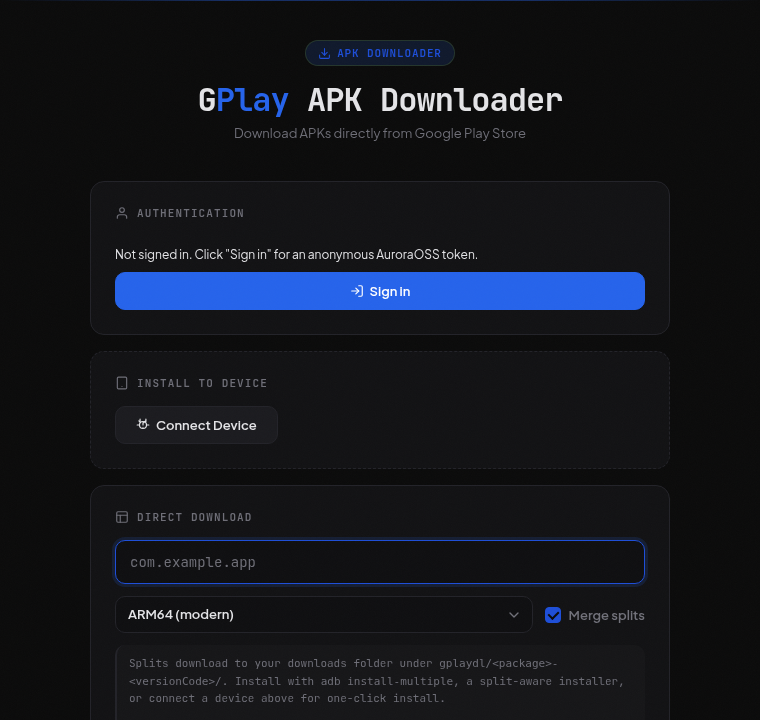
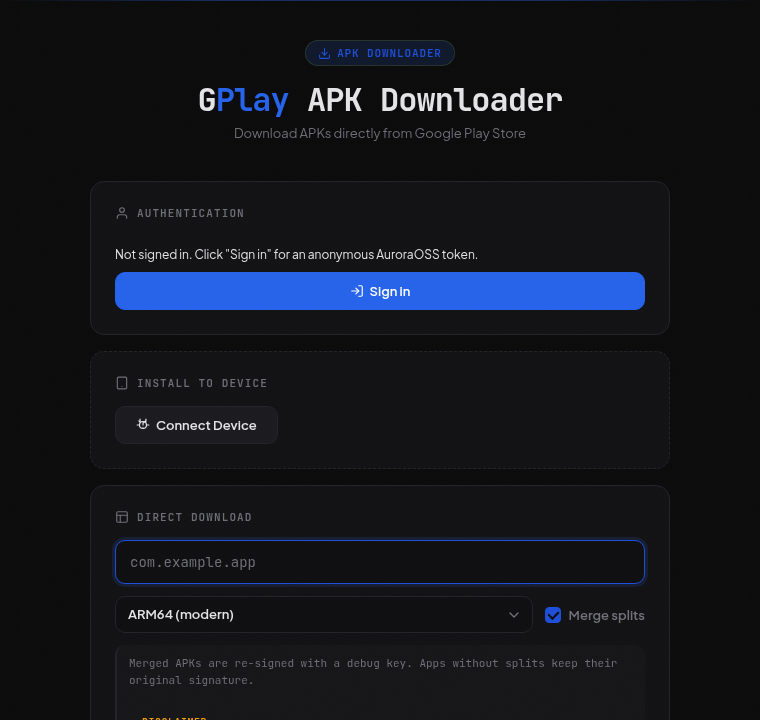
Legacy parity: Search card, ZIP fallback, exact card text
- Restore the Search card (Play Store HTML scrape ported from
  server.py /api/search: featured + related + JSON fallback regex).
  New app.search RPC in the service worker; results render with icons
  matching the legacy app-item layout.
- Direct Download card text restored to the legacy disclaimer + note
  verbatim ("Merged APKs are re-signed with a debug key…" + WhatsApp
  / banking warning).
- Backup card: drop the extra description paragraph; "Backup App
  List" button hidden until ADB connects (legacy DOM/CSS).
- When "Merge splits" is unchecked, the download is now a single ZIP
  with all splits inside (matches legacy "download as ZIP" path).
  Bulk restore loops the same per-package path → one ZIP per app.
- e2e: 01 now expects the search input present; 03 asserts the ZIP
  path completes; 04 tolerates execution-context teardown around the
  blob-URL download and falls back to checking on-disk artefacts.

Changed region(s): [[0.1816, 0.9167, 0.8171, 0.9778]]

diff --git a/web_extension/src/app.js b/web_extension/src/app.js
@@ -197,17 +197,43 @@ async function doDownload() {
       : await rpc('app.details', { packageName: pkg });
     currentDetails = d;
     log('Download: ' + d.title + ' v' + d.versionString + ' (vc=' + d.versionCode + ')', 'info');
-    const merge = $('#merge-apks').checked;
-    if (merge) {
-      await downloadAsSingleFile(pkg, d, 'merge');
-    } else {
-      const res = await rpc('app.download', { packageName: pkg, versionCode: d.versionCode });
-      log('Queued ' + res.files.length + ' file(s) under ' + res.dirPrefix, 'dl');
-    }
+    const format = $('#merge-apks').checked ? 'merge' : 'zip';
+    await downloadAsSingleFile(pkg, d, format);
   } catch (err) {
     log('Download failed: ' + err.message, 'err');
   } finally {
     setLogActive(false);
+  }
+}
+
+async function doSearch() {
+  const q = $('#search-q').value.trim();
+  if (!q) return;
+  const el = $('#search-results');
+  el.innerHTML = '<div class="loading"><span class="spinner"></span>Searching…</div>';
+  log('Searching for "' + q + '"…', 'info');
+  try {
+    const d = await rpc('app.search', { query: q });
+    if (!d?.results?.length) { el.innerHTML = '<div class="msg info">No results found</div>'; log('No results for "' + q + '"', 'warn'); return; }
+    log('Found ' + d.results.length + ' results for "' + q + '"', 'ok');
+    el.innerHTML = d.results.map((a) =>
+      '<div class="app-item">' +
+      (a.icon ? '<img class="app-icon" src="' + esc(a.icon) + '" alt="" loading="lazy">' : '') +
+      '<div class="app-info"><h3>' + esc(a.title || a.package) + '</h3>' +
+      '<div class="pkg">' + esc(a.package) + '</div></div>' +
+      '<div class="app-actions"><button class="btn-primary" data-pkg="' + esc(a.package) + '">Download</button></div>' +
+      '</div>'
+    ).join('');
+    el.querySelectorAll('button[data-pkg]').forEach((b) => {
+      b.addEventListener('click', () => {
+        $('#pkg-input').value = b.dataset.pkg;
+        currentDetails = null;
+        doDownload();
+      });
+    });
+  } catch (err) {
+    el.innerHTML = '<div class="msg err">' + esc(err.message) + '</div>';
+    log('Search failed: ' + err.message, 'err');
   }
 }
 
@@ -339,33 +365,46 @@ async function onBackupImport(e) {
   }
 }
 
+let bulkAborted = false;
+
 async function doRestore() {
   const selected = Array.from(document.querySelectorAll('.backup-check:checked')).map((c) => c.dataset.pkg);
   if (selected.length === 0) { log('No packages selected', 'warn'); return; }
   const btn = $('#backup-restore-btn');
   const parent = btn?.parentNode;
   if (btn) btn.disabled = true;
+  bulkAborted = false;
   const cancelBtn = document.createElement('button');
   cancelBtn.className = 'btn-ghost';
   cancelBtn.id = 'backup-cancel-btn';
   cancelBtn.textContent = 'Cancel';
-  cancelBtn.addEventListener('click', async () => {
+  cancelBtn.addEventListener('click', () => {
     cancelBtn.disabled = true;
-    try { await rpc('app.abortBulk'); log('Cancel requested — stopping after current app', 'warn'); }
-    catch (err) { log('Cancel failed: ' + err.message, 'err'); }
+    bulkAborted = true;
+    log('Cancel requested — stopping after current app', 'warn');
   });
   if (parent) parent.appendChild(cancelBtn);
   setLogActive(true);
   if (!$('#log-panel').classList.contains('open')) toggleLog();
+  const format = $('#merge-apks').checked ? 'merge' : 'zip';
   log('Downloading ' + selected.length + ' app(s) sequentially…', 'dl');
+  let ok = 0, failed = 0;
   try {
-    const res = await rpc('app.downloadList', { packages: selected });
-    const ok = res.results.filter((r) => r.ok).length;
-    const failed = res.results.length - ok;
-    const label = res.aborted ? 'Bulk download aborted' : 'Bulk download done';
-    log(label + ': ' + ok + ' ok, ' + failed + ' failed' + (res.aborted ? ' (cancelled)' : ''), failed || res.aborted ? 'warn' : 'ok');
-  } catch (err) {
-    log('Bulk download failed: ' + err.message, 'err');
+    for (let i = 0; i < selected.length; i++) {
+      if (bulkAborted) { log('Bulk aborted after ' + i + ' of ' + selected.length, 'warn'); break; }
+      const pkg = selected[i];
+      log('[' + (i + 1) + '/' + selected.length + '] ' + pkg, 'info');
+      try {
+        const d = await rpc('app.details', { packageName: pkg });
+        await downloadAsSingleFile(pkg, d, format);
+        ok++;
+      } catch (err) {
+        failed++;
+        log('[fail] ' + pkg + ': ' + err.message, 'err');
+      }
+    }
+    const label = bulkAborted ? 'Bulk download aborted' : 'Bulk download done';
+    log(label + ': ' + ok + ' ok, ' + failed + ' failed', failed || bulkAborted ? 'warn' : 'ok');
   } finally {
     setLogActive(false);
     if (btn) btn.disabled = false;
@@ -465,7 +504,7 @@ function setAdbCard(state, info) {
       (info.serial ? ' · ' + esc(info.serial) : '') + '</small></div>' +
       '<button class="btn-ghost" id="adb-disconnect-btn">Disconnect</button>';
     $('#adb-disconnect-btn').addEventListener('click', adbDoDisconnect);
-    if (backupBtn) backupBtn.disabled = false;
+    if (backupBtn) { backupBtn.disabled = false; backupBtn.style.display = ''; }
   } else {
     statusEl.innerHTML =
       '<button class="btn-secondary" id="adb-connect-btn">' +
@@ -473,7 +512,7 @@ function setAdbCard(state, info) {
       'Connect Device' +
       '</button>';
     $('#adb-connect-btn').addEventListener('click', adbDoConnect);
-    if (backupBtn) backupBtn.disabled = true;
+    if (backupBtn) { backupBtn.disabled = true; backupBtn.style.display = 'none'; }
   }
   updateInstallBtnVisibility();
 }
@@ -584,6 +623,8 @@ document.addEventListener('DOMContentLoaded', async () => {
   $('#download-btn').addEventListener('click', doDownload);
   $('#install-btn').addEventListener('click', doInstall);
   $('#pkg-input').addEventListener('keypress', (e) => { if (e.key === 'Enter') doInfo(); });
+  $('#search-btn').addEventListener('click', doSearch);
+  $('#search-q').addEventListener('keypress', (e) => { if (e.key === 'Enter') doSearch(); });
   $('#backup-import').addEventListener('change', onBackupImport);
 
   await refreshAuth();

diff --git a/web_extension/src/index.html b/web_extension/src/index.html
@@ -65,13 +65,13 @@
         </label>
       </div>
       <div class="note">
-        Splits download to your downloads folder under <code>gplaydl/&lt;package&gt;-&lt;versionCode&gt;/</code>. Install with <code>adb install-multiple</code>, a split-aware installer, or connect a device above for one-click install.
+        Merged APKs are re-signed with a debug key. Apps without splits keep their original signature.
         <br><br>
         <details class="disclaimer">
           <summary>&#9888; Disclaimer</summary>
           <div class="disclaimer-body">
-            <p class="disclaimer-warn">DOWNLOADED APKS ARE THE ORIGINAL, UNMODIFIED, GOOGLE-SIGNED FILES. SIGNATURES ARE PRESERVED.</p>
-            <p class="disclaimer-tip">Apps that require server-side anti-tampering (banking, ride-share, WhatsApp, account-bound Google apps) are downloaded fine and install fine. The extension is in the legal posture of a tool author, not a service operator — APK bytes never touch a server. Use your own judgement and your own Google account at your own risk.</p>
+            <p class="disclaimer-warn">NOT RECOMMENDED FOR APPS FROM META, UBER, WHATSAPP, ANY GOOGLE APP REQUIRING AN ACCOUNT, OR ANY BANKING APP. RISK OF ACCOUNT BAN WITH CHANGED SIGNATURE.</p>
+            <br><p class="disclaimer-tip">For these apps, use <strong>Install to Device</strong> via USB or <strong>download as ZIP</strong> (uncheck merge) to preserve original signatures.<br><br>Use your own judgement to decide if an app is serious enough about security to warrant not merging. We do not take responsibility for any account bans or restrictions resulting from the use of re-signed APKs.</p>
           </div>
         </details>
       </div>
@@ -90,6 +90,21 @@
         </button>
       </div>
       <div id="info-result" class="results"></div>
+    </div>
+
+    <div class="card">
+      <div class="card-label">
+        <svg viewBox="0 0 24 24" fill="none" stroke="currentColor" stroke-width="2" stroke-linecap="round" stroke-linejoin="round"><circle cx="11" cy="11" r="8"/><line x1="21" y1="21" x2="16.65" y2="16.65"/></svg>
+        Search
+      </div>
+      <input type="text" id="search-q" placeholder="Search the Play Store...">
+      <div class="btn-row">
+        <button class="btn-primary" id="search-btn">
+          <svg width="14" height="14" viewBox="0 0 24 24" fill="none" stroke="currentColor" stroke-width="2" stroke-linecap="round" stroke-linejoin="round"><circle cx="11" cy="11" r="8"/><line x1="21" y1="21" x2="16.65" y2="16.65"/></svg>
+          Search
+        </button>
+      </div>
+      <div id="search-results" class="results"></div>
     </div>
 
     <div class="log-panel" id="log-panel">
@@ -119,11 +134,8 @@
         <svg viewBox="0 0 24 24" fill="none" stroke="currentColor" stroke-width="2" stroke-linecap="round" stroke-linejoin="round"><path d="M19 21H5a2 2 0 0 1-2-2V5a2 2 0 0 1 2-2h11l5 5v11a2 2 0 0 1-2 2z"/><polyline points="17 21 17 13 7 13 7 21"/><polyline points="7 3 7 8 15 8"/></svg>
         Backup &amp; Restore
       </div>
-      <div class="note">
-        Backup the installed-app list from a connected device, or import a previously saved JSON and re-download everything sequentially.
-      </div>
-      <div class="backup-actions">
-        <button class="btn-primary" id="backup-btn" disabled>
+      <div class="backup-actions" id="backup-actions">
+        <button class="btn-primary" id="backup-btn" style="display:none">
           <svg width="14" height="14" viewBox="0 0 24 24" fill="none" stroke="currentColor" stroke-width="2" stroke-linecap="round" stroke-linejoin="round"><path d="M21 15v4a2 2 0 0 1-2 2H5a2 2 0 0 1-2-2v-4"/><polyline points="17 8 12 3 7 8"/><line x1="12" y1="3" x2="12" y2="15"/></svg>
           Backup App List
         </button>

diff --git a/web_extension/src/background.js b/web_extension/src/background.js
@@ -656,6 +656,58 @@ async function releaseRules({ ruleIds }) {
 
 let bulkAbort = false;
 
+// Search the Play Store by scraping play.google.com/store/search HTML.
+// Mirrors server.py:/api/search (Method 1 + Method 2 regex extraction).
+async function appSearch({ query }) {
+  if (typeof query !== 'string' || !query.trim()) throw new Error('query required');
+  if (query.length > 200) throw new Error('query too long');
+  const res = await fetch('https://play.google.com/store/search?q=' + encodeURIComponent(query) + '&c=apps');
+  if (!res.ok) throw new Error('Play search HTTP ' + res.status);
+  const html = await res.text();
+  const results = [];
+  const seen = new Set();
+  const decodeHtml = (s) => s.replace(/&amp;/g, '&').replace(/&#39;/g, "'").replace(/&quot;/g, '"');
+  const upgradeIcon = (url) => url.replace(/=s\d+/, '=s128').replace(/=w\d+/, '=s128');
+
+  // Method 1a: featured app
+  const featured = html.match(/href="\/store\/apps\/details\?id=([^"&]+)"[^>]*>[\s\S]*?<img[^>]*src="(https:\/\/play-lh\.googleusercontent\.com\/[^"]+)"[^>]*>[\s\S]*?<div class="vWM94c">([^<]+)<\/div>/);
+  if (featured) {
+    const [, pkg, icon, title] = featured;
+    if (!seen.has(pkg)) { seen.add(pkg); results.push({ package: pkg, title: decodeHtml(title), icon: upgradeIcon(icon) }); }
+  }
+
+  // Method 1b: related apps
+  const rel = /href="\/store\/apps\/details\?id=([^"&]+)"[^>]*>[\s\S]*?<img[^>]*src="(https:\/\/play-lh\.googleusercontent\.com\/[^"=]+=[sw]\d+[^"]*)"[^>]*>[\s\S]*?class="Epkrse\s*">([^<]+)<\/div>/g;
+  let m;
+  while ((m = rel.exec(html)) !== null && results.length < 10) {
+    const [, pkg, icon, title] = m;
+    if (seen.has(pkg)) continue;
+    seen.add(pkg);
+    results.push({ package: pkg, title: decodeHtml(title), icon: upgradeIcon(icon) });
+  }
+
+  // Method 2: JSON-embedded packages.
+  if (results.length < 3) {
+    const pkgRe = /\[\["(com\.[a-zA-Z0-9_.]+)",7\],\[null,2/g;
+    let pm;
+    while ((pm = pkgRe.exec(html)) !== null && results.length < 10) {
+      const pkg = pm[1];
+      if (seen.has(pkg)) continue;
+      const titleRe = new RegExp('\\[\\["' + pkg.replace(/[.]/g, '\\.') + '",7\\][\\s\\S]*?\\],"([^"]+)",\\["[0-9.]+",\\s*[0-9.]+', '');
+      const titleM = html.match(titleRe);
+      const iconRe = new RegExp('\\[\\["' + pkg.replace(/[.]/g, '\\.') + '",7\\],\\[null,2,(?:null|\\[[0-9]+,[0-9]+\\]),\\[null,null,"(https://play-lh\\.googleusercontent\\.com/[^"]+)"\\]', '');
+      const iconM = html.match(iconRe);
+      seen.add(pkg);
+      results.push({
+        package: pkg,
+        title: titleM ? titleM[1].replace(/\\u0026/g, '&').replace(/\\u0027/g, "'") : pkg,
+        icon: iconM ? upgradeIcon(iconM[1]) : '',
+      });
+    }
+  }
+  return { results };
+}
+
 async function appDownloadList({ packages }) {
   if (!Array.isArray(packages) || packages.length === 0) throw new Error('packages must be a non-empty array');
   bulkAbort = false;
@@ -717,6 +769,7 @@ const RPC = {
   'app.showDownload':   (p) => showDownload(p),
   'app.prepareInstall': (p) => appPrepareInstall(p),
   'app.releaseRules':   (p) => releaseRules(p),
+  'app.search':         (p) => appSearch(p),
 };
 
 chrome.runtime.onMessage.addListener((msg, _sender, sendResponse) => {
